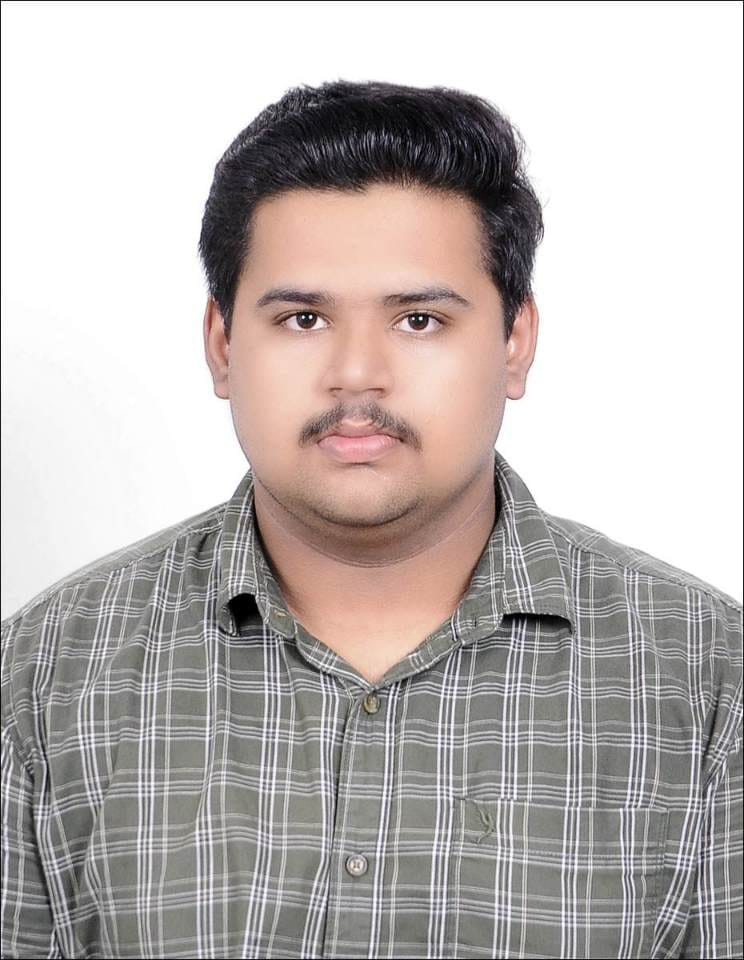
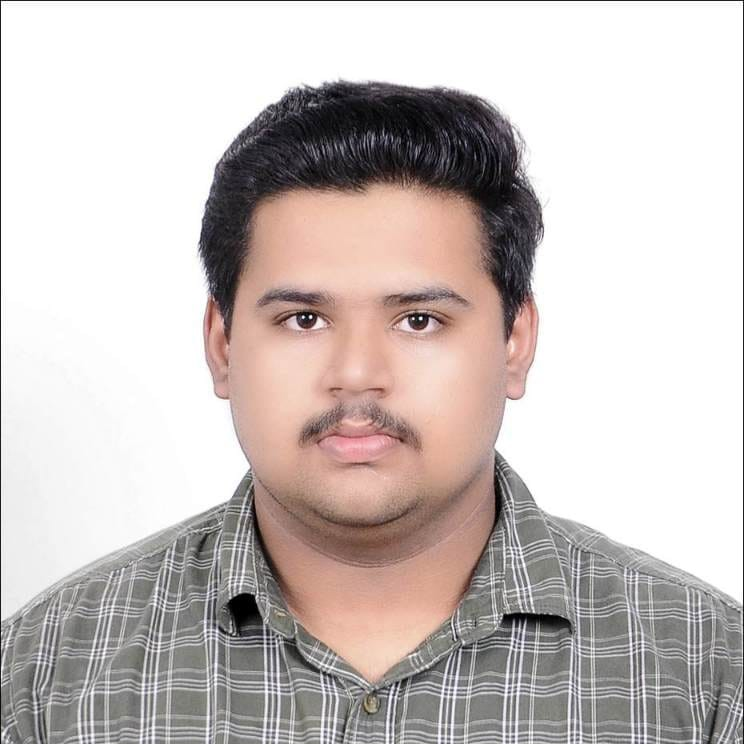
Update execom member image and include IEEE Link Representative in the list

diff --git a/src/data/execom.ts b/src/data/execom.ts
@@ -350,7 +350,7 @@ export const execomMembersRaw: { [key: string]: ExecomMember[] } = {
       id: 21,
       name: "Unnikrishnan Namboothiri EN",
       role: "IEEE Link Representative",
-  image: resolveTeamImage("/media/team/placeholder.jpeg"),
+  image: resolveTeamImage("/media/team/Unni.jpeg"),
       social: {
         linkedin: "https://www.linkedin.com/in/unnikrishnan-namboothiri-en-63aa58332",
         instagram: "https://www.instagram.com/iunni_005"
